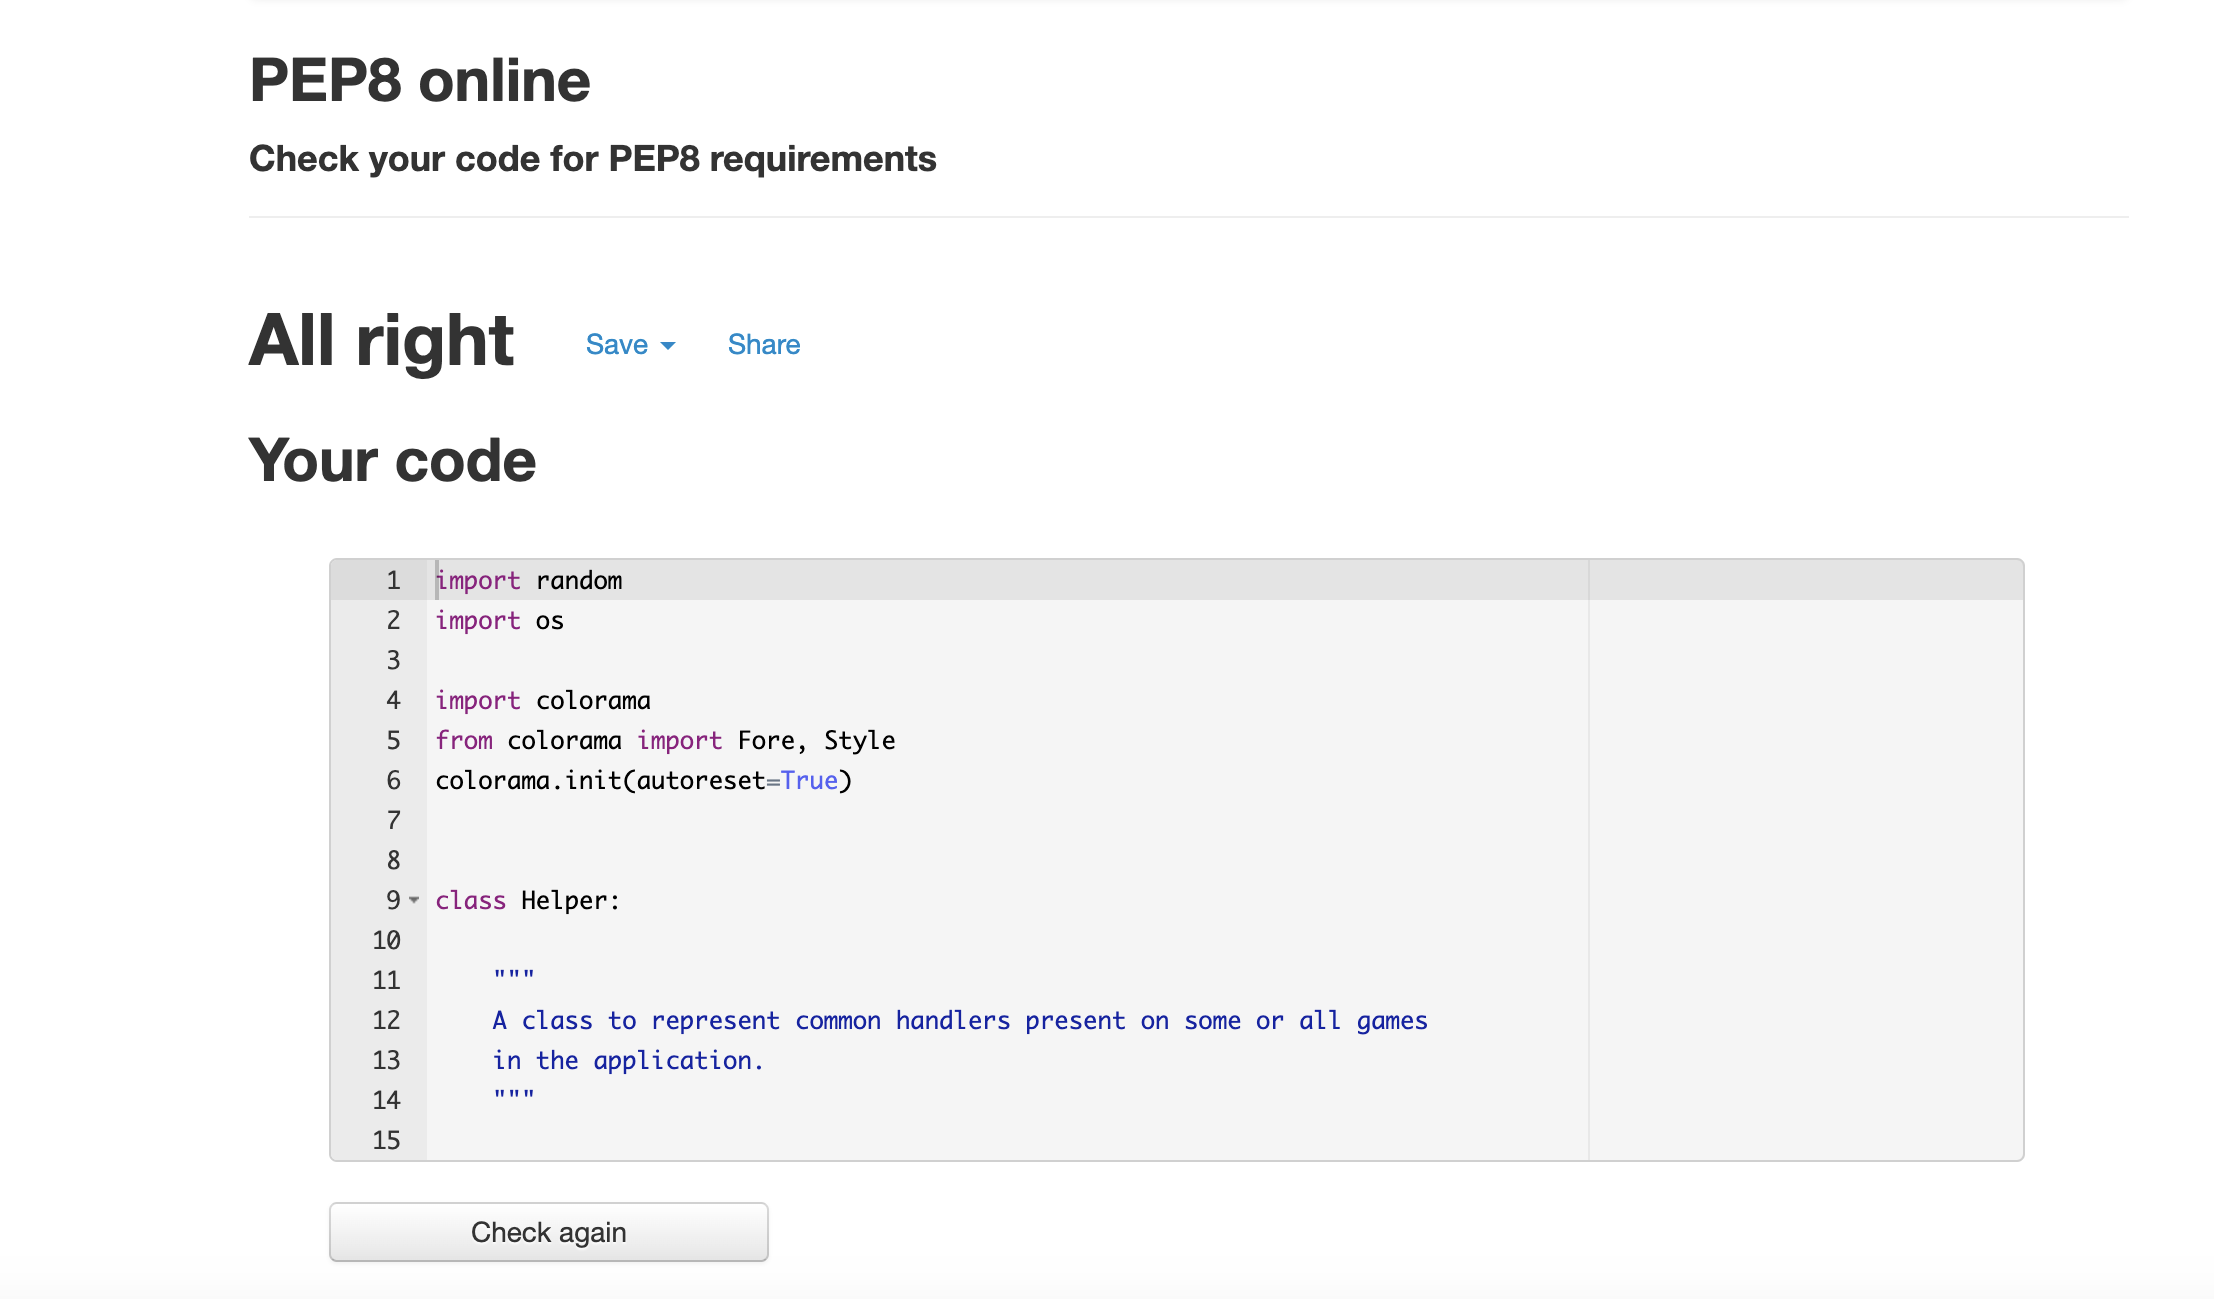
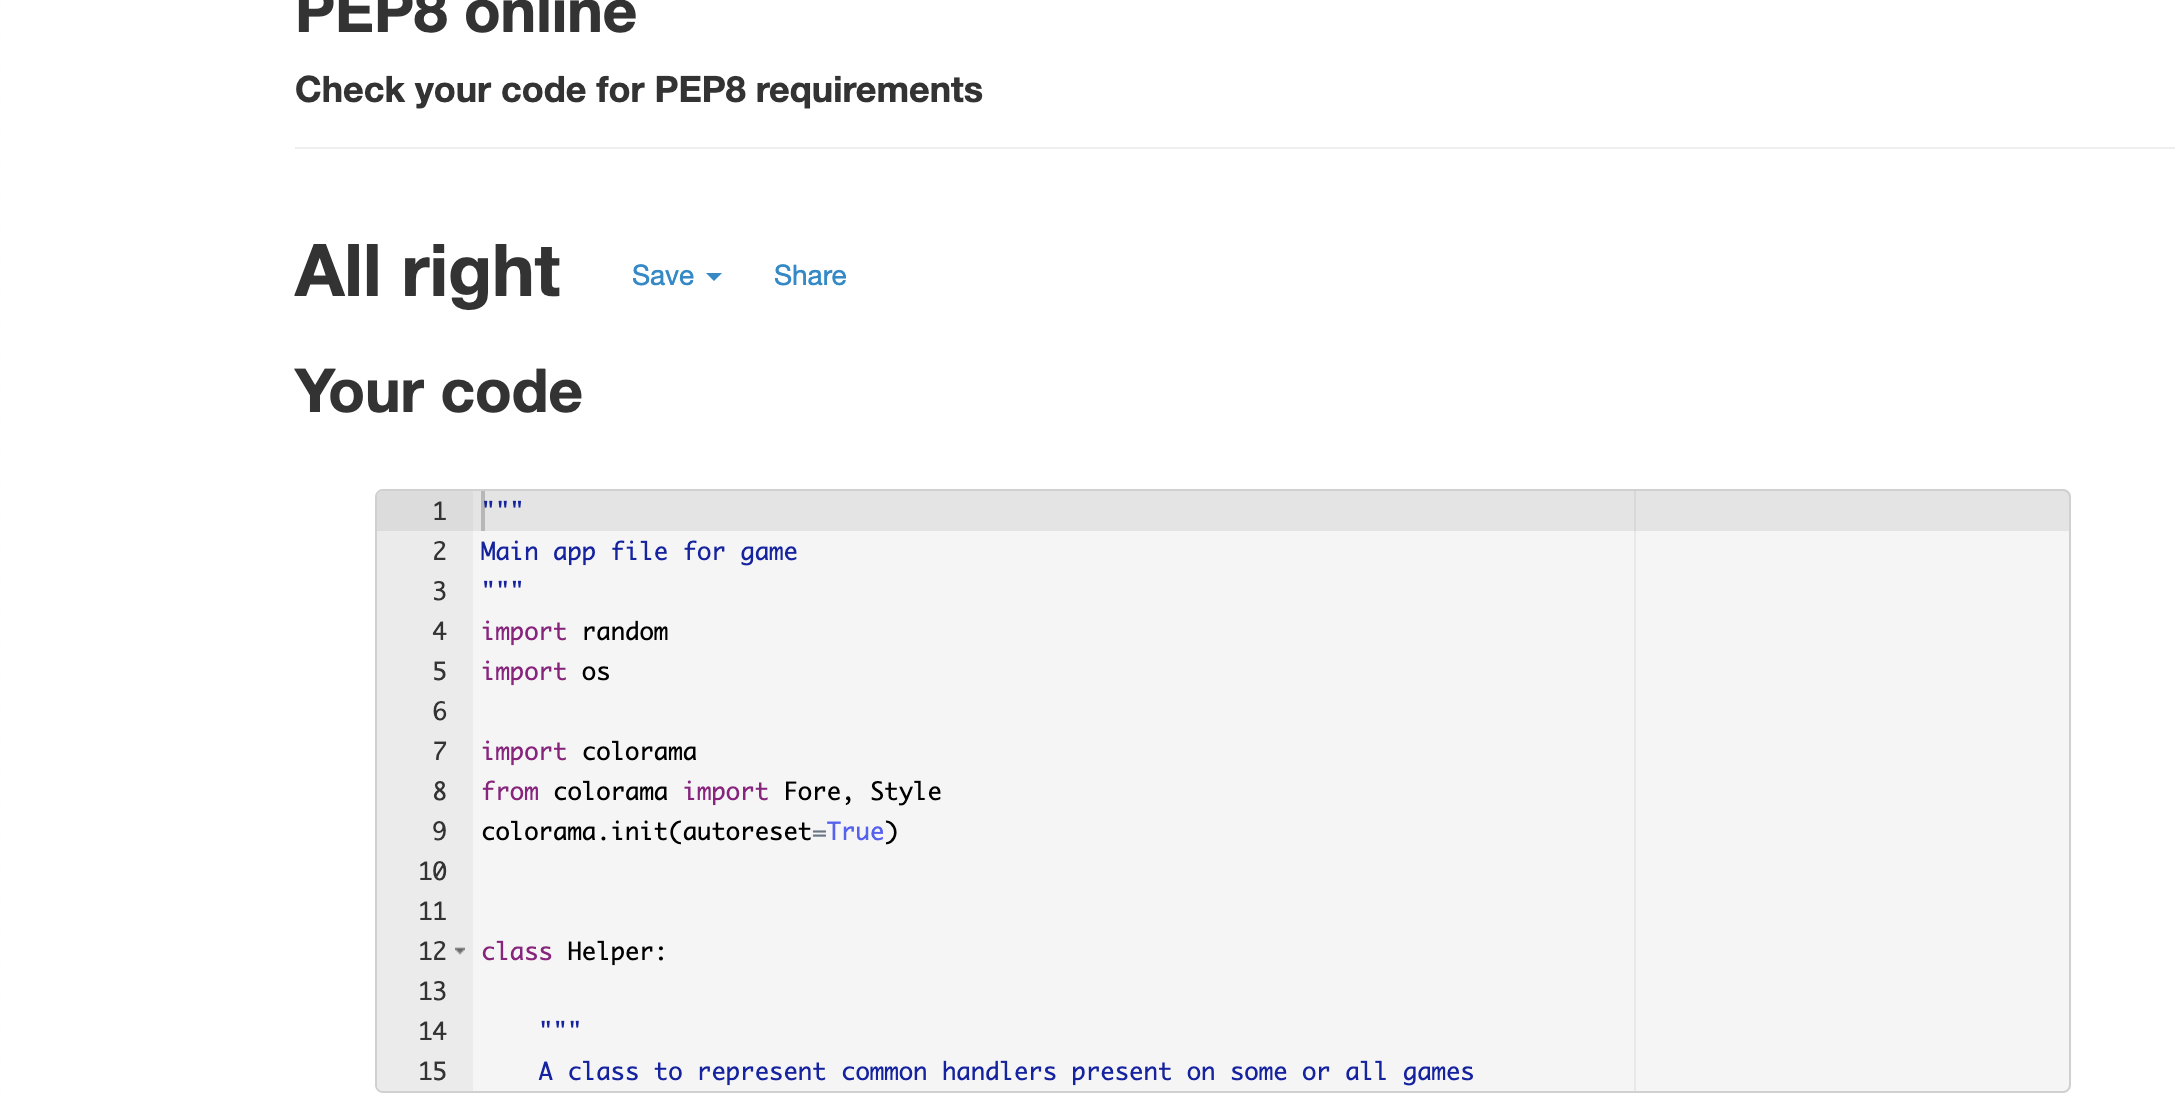
Remove time python module and clear terminal call function at the top of the run function in the games class. Update deployment details in README file

diff --git a/run.py b/run.py
@@ -1,6 +1,8 @@
+"""
+Main app file for game
+"""
 import random
 import os
-import time
 
 import colorama
 from colorama import Fore, Style
@@ -53,7 +55,6 @@ class Helper:
             print("\n" * 150)
 
 
-# User has to guess a number generated by the computer
 class PlayerGuesses(Helper):
 
     """
@@ -104,15 +105,6 @@ class PlayerGuesses(Helper):
 
         print(f"\n{Fore.GREEN}You got it! The number was: {random_number_100}")
         print(f"{Fore.GREEN}You guessed it in {self.guesses + 1} attempts!")
-
-# Computer has to guess a number generated by the User
-
-# User chooses a number
-# Computer makes a guess
-# User gets an input to say if the number needs to be lower or higher
-# by entering 1 for lower, 2 for higher or 3 for when the number is correct
-# Continues until computer gets to the correct number
-# prompt to play again or something else
 
 
 class ComputerGuesses(Helper):
@@ -200,15 +192,6 @@ class ComputerGuesses(Helper):
                 print(f"{Fore.RED}You're not playing the game correctly!!")
                 break
 
-# Coin Toss (Heads/Tails)
-
-# Program begins when user presses a key
-# User calls in an input whether they think it will be heads or tails
-# The computer makes a guess of its own
-# The 'coin' is flipped and a result is generated
-# See who wins the round
-# Prompt to either 'flip a coin' again or do something else
-
 
 class CoinToss(Helper):
 
@@ -295,6 +278,10 @@ class Games(Helper):
         self.game3 = CoinToss()
 
     def __menu(self):
+        """
+        Prints the welcome message and start menu
+        options and descriptions.
+        """
 
         print(f"{Style.BRIGHT}Welcome to my Guess-The-Number application!\n")
         print("A game where you or the computer can try to guess a number.")
@@ -310,10 +297,8 @@ class Games(Helper):
         Runs the menu introduction and provides player with an input to
         pick one of three options.
         """
-        self.clear_terminal()
 
         while True:
-
             self.__menu()
 
             menu_input = self.get_int("Please pick a number to begin: ")
@@ -333,8 +318,8 @@ class Games(Helper):
                 self.game3.play()
                 self.__end_of_game(self.game3)
             elif menu_input > 3 or menu_input < 0:
-                print(f"{Fore.RED}Invalid option! Pick: 0, 1, 2 or 3 only")
-                time.sleep(3)
+                print(f"\n{Fore.RED}Invalid option! Pick: 0, 1, 2 or 3 only\n")
+
                 self.run()
 
             else:

diff --git a/README.md b/README.md
@@ -341,6 +341,8 @@ Aside from aesthetics in the 'terminal view port' width and layout, I'm happy to
 
  - There was an issue where if the player didn't play the game as intended and lied about the results in game2 (Guess-The-Number (AI)), it would throw a traceback error in the terminal. An extra try/except statement was included and another if statement and it catches out the problem. This issue in particular was spotted by Niki Tester and together we found a solution to the problem.
 
+ - On the deployed game, I had a flickering issue when a number greater than 3 or less than zero was entered in the main menu. To fix this, I imported Python's time module and set a time.sleep for 3 seconds in the menu run function. This did fix the flickering but I still wasn't too happy as during the 3 second delay you could continue to input different options. It was only after this I realised I was calling my clear terminal function too early and this was causing the flickering. By removing this, it did an even better job than introducing the time module and so I promptly removed it.
+
 
 ---
 
@@ -357,7 +359,9 @@ I submitted my project to the peer-code-review channel in the C.I Slack communit
 
 - A few other users on Slack also made some suggestions regarding how I could present the list of past guesses differently and also I had a suggestion for future builds to automate the whole second game and remove the user input element of it. 
 
-- Daisy, my C.I Mentor, has been reviewing my work at the beginning, middle and end of my project, providing vital feedback in the direction and scope of my project. 
+- Dave on Slack found a flickering bug in the main menu if an incorrect integer greater than 3 or less than 0 was entered. I took this feedback and imported the python time module to introduce a small pause to stop the flickering issue. It was only after this I realised I was calling my clear terminal function too early and this was causing the flickering. By removing this, it did an even better job than introducing the time module and so I promptly removed it.
+
+- Daisy, my C.I Mentor, has been reviewing my work at the beginning, middle and end of my project, providing vital feedback in the direction and scope of my project. In the final review right the end of the project, Daisy was very happy with how far I'd come with the project, and after a couple of further suggestions for my code and README file, I was ready to submit it.
 
 
 ---
@@ -366,15 +370,37 @@ I submitted my project to the peer-code-review channel in the C.I Slack communit
 
 Follow the steps below to see how to deploy a repository through Heroku:
 
+### Build an app in Heroku:
+
+To build an app in Heroku, follow these steps:
+
+1. Open the Heroku site, login and access your dashboard. In the top right hand corner of the website, click on the "New" button and select "create new app".
+![Heroku Home](/assets/readme-images/heroku-start.png)
+
+2. You will be brought to a new page where you can enter the name of your app and the region you are based in. Once you do this, click on the "create app" button:
+![Create New app](/assets/readme-images/heroku-newapp.png)
+
+3. Once you do this, you will be brought to the app-specific dashboard. 
+![Heroku Pipeline](/assets/readme-images/heroku-pipeline.png)
+
+4. Make sure you connect/link your github account for ease of deployment and then head to the settings tab to configure vars and install required buildpacks:
+![Settings](/assets/readme-images/heroku-settings.png)
+  - You will want your config vars to have the key and value --> PORT and 8000
+  - Buildpacks required will be Python and Node.JS **in that order**
+![Config Vars and Buildpacks](/assets/readme-images/build-config-vars.png)
+
+5. Once this is done, you are ready to begin deploying your application!
+
+
 ### Steps to deploy your app to Heroku:
 
-1. Login to Heroku in the terminal byt entering the command **heroku login -i** followed by your login details.
-2. Retreive your application's name from heroku and enter **heroku apps**.
+1. Login to Heroku in the terminal by entering the command **heroku login -i** followed by your login details.
+2. Retrieve your application's name from heroku and enter **heroku apps**.
 3. Set the heroku remote: (make sure you replace the <app_name> with your actual application name) heroku git:remote -a <app_name>
 4. Next, as per a usual deployment to github, enter the following commands with a similar message: git add. (followed by -->) git commit -m "Deploy to Heroku through CLI" (followed by -->) git push origin main (followed by -->) git push heroku main
 
-Alternatively, if available, you can also enable auto or manual deployments if you link your github account and repository to your Heroku account. This enables much faster linked deployments without using the CLI.
 
+Alternatively, if available, you can also enable auto or manual deployments if you link your github account and repository to your Heroku account. This enables much faster linked deployments without using the CLI.
 
 ---
 
